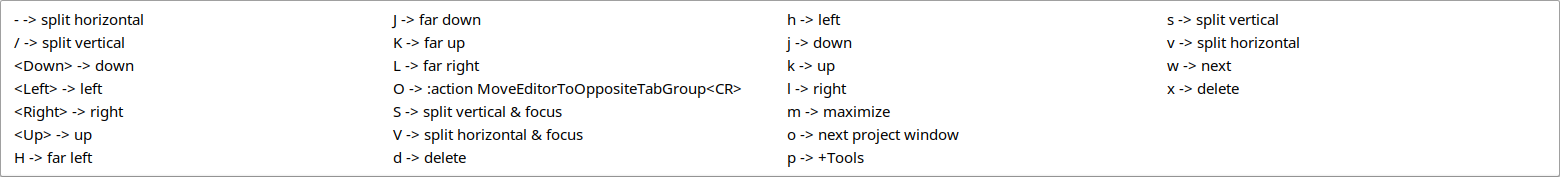
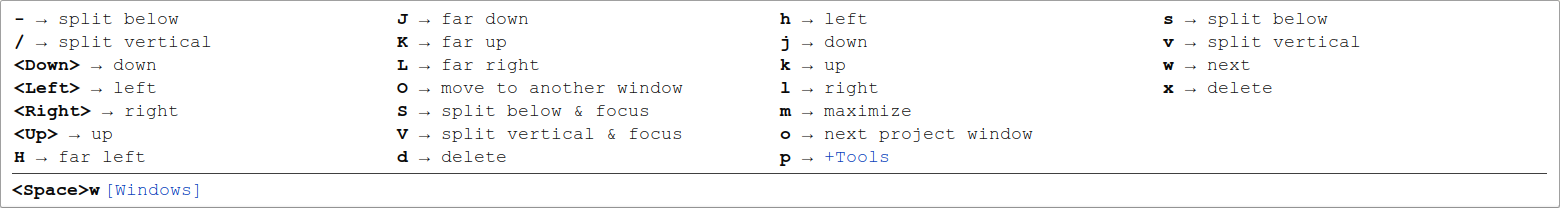
Update README popup images and gifs

diff --git a/README.md b/README.md
@@ -60,16 +60,16 @@ If no custom descriptions are defined, the right-hand side of all mappings will 
 To provide custom names for prefixes and commands we need to configure one variable for every mapping:
 
 ```vim
-let g:WhichKeyDesc_windows        = "<Space>w  +Windows"
-let g:WhichKeyDesc_windows_delete = "<Space>wd delete-window"
-let g:WhichKeyDesc_windows_split  = "<Space>ws split-window-below"
+let g:WhichKeyDesc_windows        = "<Space>w  Windows"
+let g:WhichKeyDesc_windows_delete = "<Space>wd delete"
+let g:WhichKeyDesc_windows_split  = "<Space>ws split below"
 ...
 ```
 
 The `<leader>` key is also supported
 
 ```vim
-let g:WhichKeyDesc_buffer        = "<leader>b  +Buffer"
+let g:WhichKeyDesc_windows_maximize = "<leader>wm maximize"
 ```
 
 ![configured popup](/assets/popup_configured.png)
